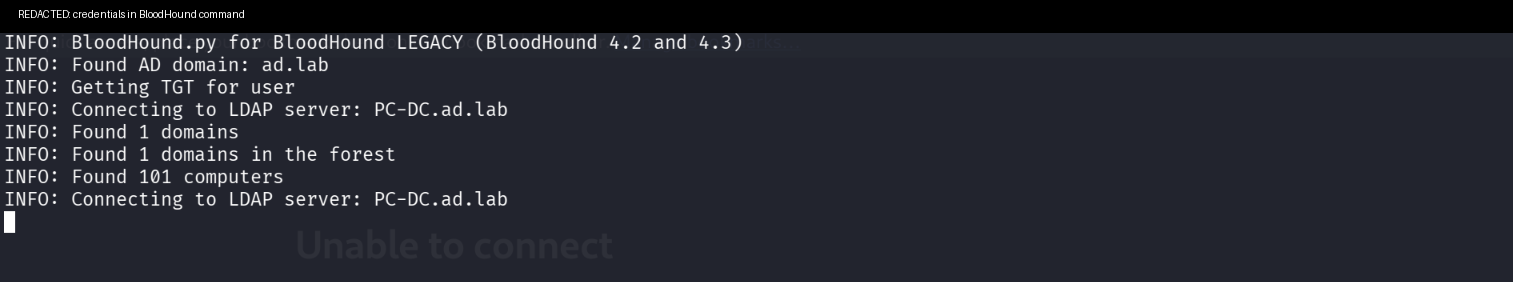
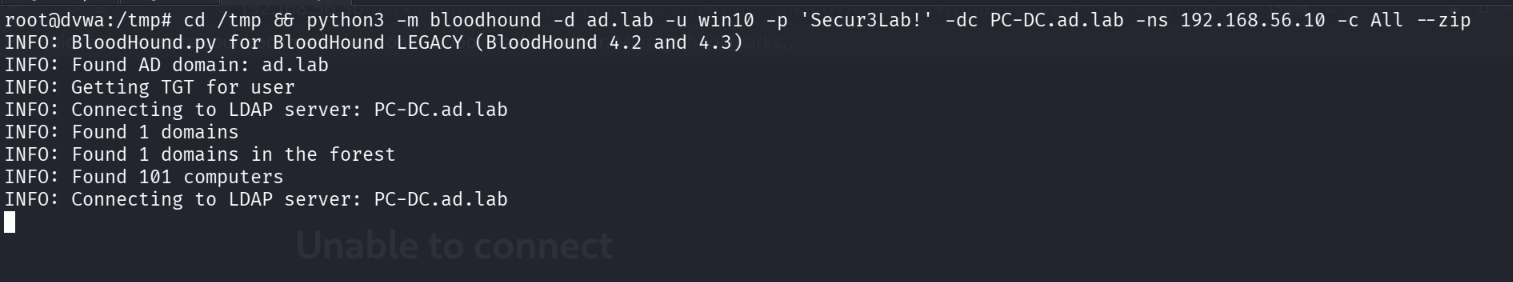
docs(evidence): restore original attack screenshots

Changed region(s): [[0.0, 0.0, 1.0, 0.1418]]

diff --git a/02-Attack-Simulation/README.md b/02-Attack-Simulation/README.md
@@ -57,12 +57,12 @@ The 20 attack simulation stages are grouped into three distinct investigative ca
 
 ## Evidence Repositories
 
-The evidence sets below are published in the public repository. Attack screenshots and the master PDF are redacted where they contained credential material; unredacted originals remain local-only and are ignored via `.gitignore`. The inline image links resolve to the redacted copies.
+The evidence sets below are published in the public repository. The attack screenshots are the original captures from the isolated lab; the master PDF is currently the redacted copy. The unredacted PDF original remains local-only and is ignored via `.gitignore`. The inline image links resolve to the original screenshots.
 
 | Evidence Set | Location | Details |
 |---|---|---|
 | **Master Blueprint Document** | [`06-Resources/attack-chain-full.pdf`](../06-Resources/attack-chain-full.pdf) (redacted) | Redacted copy of the single-source PDF describing the full attack chain and threat model. |
-| **Attacker-Side Screenshots** | [`02-Attack-Simulation/Attack-Screenshots/`](Attack-Screenshots/) (redacted) | 62 high-resolution screenshots (`1.png` through `60.png`, plus `58.5.png` and `59.5.png`) showing terminal commands, tool executions, browser actions, and GUI validations. |
+| **Attacker-Side Screenshots** | [`02-Attack-Simulation/Attack-Screenshots/`](Attack-Screenshots/) (original) | 62 high-resolution screenshots (`1.png` through `60.png`, plus `58.5.png` and `59.5.png`) showing terminal commands, tool executions, browser actions, and GUI validations. |
 | **SOC & Alert Screenshots** | [`03-Detection-Engineering/TheHive_Alert-ScreenShot/`](../03-Detection-Engineering/TheHive_Alert-ScreenShot/) | 60 screenshots showing fired alerts, triage views, rule classifications, and event telemetry in TheHive, Wazuh, and Suricata. |
 | **Incident Response Screenshots** | `05-Incident-Report/Response_Action-Screenshot/` | No screenshot files are present in this folder. |
 

diff --git a/Site/README.md b/Site/README.md
@@ -53,7 +53,7 @@ npm run preview
 - Keep all 20 stages at `Not tested` until a rule fires for the right reason and the alert is actionable.
 - Keep `verifiedCount` derived from stage status; do not hardcode a detection count.
 - Treat a missing artifact as a documented gap, not as proof.
-- Publish attack and alert screenshots only in redacted form; keep unredacted originals out of the repository.
+- Attack and alert screenshots are published as captured from the isolated lab.
 - Do not silently rewrite the architecture PNG. Its gateway label is `.1`; the authoritative network record says `.150`.
 - Record placeholders (`DG-01` through `DG-20`) stay reserved until validated evidence exists.
 - The report package is a draft. Confirmed facts, hypotheses, and recommended actions remain separate.
